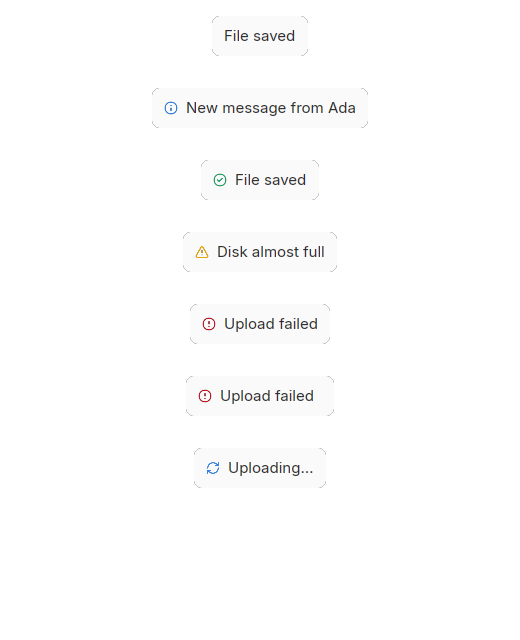
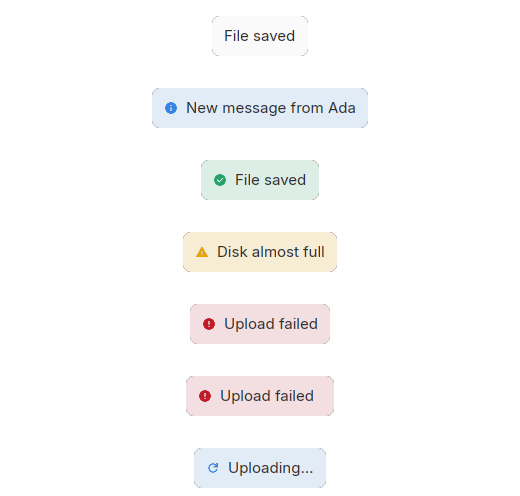
feat(toast): wear tone fills on toast surfaces instead of translucent tints

diff --git a/src/components/chrome/Toaster.stories.tsx b/src/components/chrome/Toaster.stories.tsx
@@ -1,8 +1,10 @@
+import { type ReactNode } from "react";
 import { type StyleDesc } from "@gpuix/react";
 import { defineMeta, defineStory } from "storybook";
 import { useAdwaita } from "../../theme/adwaita";
 import { Labeled, T } from "../text";
 import { Column, Row } from "../Box";
+import { Icon } from "../icons";
 import { Toaster, type ToasterPosition } from "./Toaster";
 import { type ToastType } from "./Toast";
 import { Stage } from "../../../.storybook/story-helpers";
@@ -13,12 +15,15 @@ function ToastStage({
   width = 360,
   height = 160,
   captionPos = "top-left",
+  content = null,
 }: {
   toasts: { message: string; type?: ToastType; actionLabel?: string }[];
   position?: ToasterPosition;
   width?: number;
   height?: number;
   captionPos?: "top-left" | "top-right" | "bottom-left" | "bottom-right";
+
+  content?: ReactNode;
 }) {
   const t = useAdwaita();
   const captionStyle: StyleDesc = {
@@ -38,6 +43,7 @@ function ToastStage({
           App window
         </T>
       </div>
+      {content}
       <Toaster
         toasts={toasts.map((toast, i) => ({ id: `story-${i}`, ...toast }))}
         position={position}
@@ -157,6 +163,82 @@ export const empty = defineStory({
     <Column gap={16} align="center">
       <Labeled caption="no toasts (region is transparent and inert)">
         <ToastStage width={360} height={120} toasts={[]} />
+      </Labeled>
+    </Column>
+  ),
+});
+
+
+function DownloadRows() {
+  const t = useAdwaita();
+  const rows: [string, string][] = [
+    ["backup-2026-04.tar", "1.2 GB"],
+    ["clip-rough-cut.mp4", "224 MB"],
+    ["report.pdf", "2.4 MB"],
+    ["photo-export.png", "816 KB"],
+    ["invoice-0411.pdf", "88 KB"],
+    ["notes.md", "4 KB"],
+  ];
+  return (
+    <div
+      style={{
+        display: "flex",
+        flexDirection: "column",
+        gap: t.space.xs,
+        padding: t.space.sm,
+      }}
+    >
+      {rows.map(([name, size], i) => (
+        <div
+          key={name}
+          style={{
+            display: "flex",
+            flexDirection: "row",
+            alignItems: "center",
+            gap: t.space.sm,
+            height: t.control.listRowHeight,
+            paddingLeft: t.space.sm,
+            paddingRight: t.space.sm,
+            borderRadius: t.radius.xs,
+            backgroundColor: i === 2 ? t.color.selection.muted : "transparent",
+          }}
+        >
+          <Icon
+            name="description"
+            size={t.control.listIconSize}
+            color={t.color.text.dim}
+          />
+          <T
+            size="list"
+            color={i === 2 ? t.color.text.primary : t.color.text.dim}
+            style={{ flexGrow: 1, minWidth: 0 }}
+          >
+            {name}
+          </T>
+          <T
+            size="list"
+            color={t.color.text.dim}
+            style={{ fontFamily: t.type.fontFamilyMono }}
+          >
+            {size}
+          </T>
+        </div>
+      ))}
+    </div>
+  );
+}
+
+export const overContent = defineStory({
+  render: () => (
+    <Column gap={16} align="center">
+      <Labeled caption="typed toast over content (the tone fill hides it)">
+        <ToastStage
+          width={440}
+          height={252}
+          captionPos="top-right"
+          content={<DownloadRows />}
+          toasts={[{ message: "Upload failed", type: "error" }]}
+        />
       </Labeled>
     </Column>
   ),

diff --git a/src/components/chrome/Toast.tsx b/src/components/chrome/Toast.tsx
@@ -1,5 +1,6 @@
 import { type StyleDesc } from "@gpuix/react";
-import { type AdwaitaTheme, useAdwaita } from "../../theme/adwaita";
+import { useAdwaita } from "../../theme/adwaita";
+import { type Tone, toneColor, toneFill } from "../../theme/tones";
 import { CloseButton } from "../overlay";
 import { T } from "../text";
 import { Button } from "../Button";
@@ -14,27 +15,29 @@ export type ToastType =
   | "destructive"
   | "loading";
 
+/**
+ * A type is wear, not a badge: the tone fills the toast and its base colour
+ * draws the glyph. A toast floats over content, so the fill is the tone baked
+ * into the surface rather than the translucent `*Tint` an inline `Alert` wears.
+ */
 interface ToastTypeTheme {
   icon: IconName;
-  color: string;
+  tone: Tone;
 }
 
-function resolveTypeTheme(
-  type: Exclude<ToastType, "default">,
-  t: AdwaitaTheme,
-): ToastTypeTheme {
+function resolveTypeTheme(type: Exclude<ToastType, "default">): ToastTypeTheme {
   switch (type) {
     case "success":
-      return { icon: "checkCircle", color: t.color.functional.success };
+      return { icon: "checkCircle", tone: "success" };
     case "info":
-      return { icon: "info", color: t.color.accent.base };
+      return { icon: "info", tone: "accent" };
     case "warning":
-      return { icon: "warning", color: t.color.functional.warning };
+      return { icon: "warning", tone: "warning" };
     case "error":
     case "destructive":
-      return { icon: "error", color: t.color.functional.destructive };
+      return { icon: "error", tone: "destructive" };
     case "loading":
-      return { icon: "refresh", color: t.color.accent.base };
+      return { icon: "refresh", tone: "accent" };
   }
 }
 
@@ -62,7 +65,8 @@ export function Toast({
   style,
 }: ToastProps) {
   const t = useAdwaita();
-  const typeTheme = type === "default" ? null : resolveTypeTheme(type, t);
+  const typeTheme = type === "default" ? null : resolveTypeTheme(type);
+  const surface = t.color.surface.headerbar;
   return (
     <div
       style={{
@@ -73,12 +77,19 @@ export function Toast({
         padding: t.space.md,
         borderRadius: t.radius.sm,
         borderWidth: 0,
-        backgroundColor: t.color.surface.headerbar,
+        // An untyped toast is a plain surface; a typed one wears its type.
+        backgroundColor: typeTheme
+          ? toneFill(t, typeTheme.tone, surface)
+          : surface,
         ...style,
       }}
     >
       {typeTheme ? (
-        <Icon name={typeTheme.icon} size={14} color={typeTheme.color} />
+        <Icon
+          name={typeTheme.icon}
+          size={14}
+          color={toneColor(t, typeTheme.tone)}
+        />
       ) : null}
       <div
         style={{
